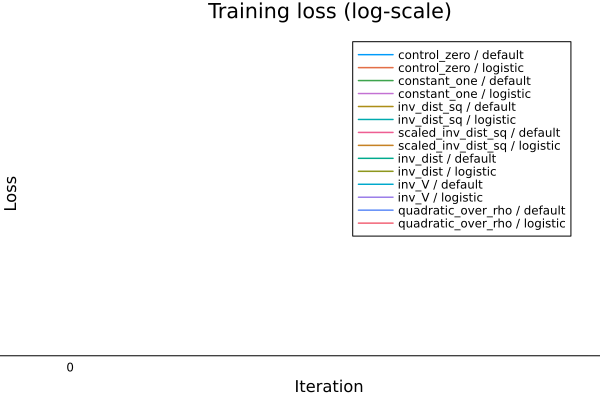
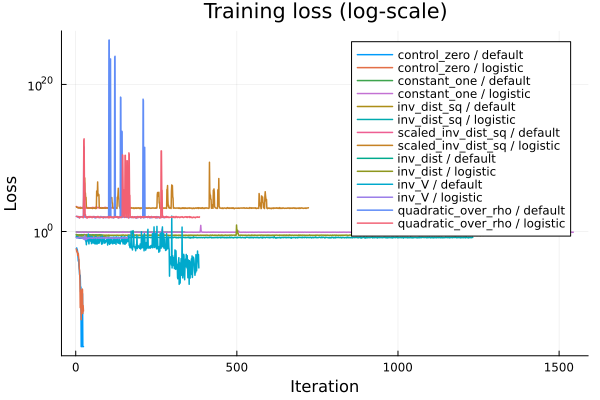
Fix blank loss plot by clamping zero losses before log-scale render
Made-with: Cursor

diff --git a/results/structured_report.md b/results/structured_report.md
@@ -1,6 +1,6 @@
 # Structured Report
 
-- Timestamp: 2026-03-10 14:02:35
+- Timestamp: 2026-03-20 11:11:30
 - NeuralLyapunov path: `C:\Users\AD\.julia\packages\NeuralLyapunov\oKiqr\src\NeuralLyapunov.jl`
 - Default sigmoid in source: `(x) -> x .≥ zero.(x)` (hard step)
 - Logistic sigmoid used in experiments: `σ(z)=1/(1+exp(-k*z))`, with `k=20`
@@ -8,10 +8,17 @@
 - Loss aggregation: NeuralPDE residual loss over PDE equations (each residual vs `0.0`).
 - Gradient through default sigmoid: non-smooth/boolean gate; logistic variant provides smooth gate.
 
-## Expected vs actual (selected penalties)
+## Penalty Hypotheses
 
-- **controlzero**: expected smallest RoA because no out-of-RoA penalty; observed areas 2.9064 (default) and 2.9164 (logistic), which are among the smallest, consistent with limited RoA expansion.
-- **constantone**: expected moderate RoA expansion due to a uniform penalty; observed areas 2.9004 (default) and 3.1276 (logistic), with the logistic run near the top of the area range, roughly matching the moderate-expansion expectation.
+| Penalty | Expression | Expected Behavior | Reasoning |
+|---------|------------|-------------------|-----------|
+| control_zero | 0 | smallest RoA estimate since there is no penalty outside the RoA | optimizer receives no gradient signal outside the RoA boundary |
+| constant_one | 1 | moderate RoA expansion | uniform penalty encourages RoA expansion but provides no spatial structure |
+| inv_dist_sq | 1 / ‖x - x₀‖² | unstable gradients near equilibrium | gradient magnitude increases rapidly near the equilibrium |
+| scaled_inv_dist_sq | 100 / ‖x - x₀‖² | similar to inv_dist_sq due to loss aggregation scaling | NeuralPDE residual loss may normalize effect of scale changes |
+| inv_dist | 1 / ‖x - x₀‖ | smoother variant of inverse distance penalty | weaker singularity compared to squared inverse distance |
+| inv_V | 1 / V | unstable or collapsed RoA estimate | singularity when V approaches zero |
+| quadratic_over_rho | max(0, V - ρ)² | well-shaped RoA boundary | directly penalizes states outside the RoA level set |
 
 ## Per-Run Results
 
@@ -29,6 +36,26 @@
 - penalty: `inv_V` | sigmoid: `logistic` | final_loss: `0.15060974536345745` | ρ: `1.0` | area: `1.3516` | max_dVdt_inside: `2.779808936432459` | has_nan: `false` | error: `none`
 - penalty: `quadratic_over_rho` | sigmoid: `default` | final_loss: `105.90212524702662` | ρ: `1.0` | area: `3.0356` | max_dVdt_inside: `0.23240711672411768` | has_nan: `false` | error: `none`
 - penalty: `quadratic_over_rho` | sigmoid: `logistic` | final_loss: `96.9347660333508` | ρ: `1.0` | area: `3.052` | max_dVdt_inside: `0.12404547271298605` | has_nan: `false` | error: `none`
+
+## Expected vs Observed Behavior
+
+### control_zero (default sigmoid)
+
+- **Expected:** smallest RoA estimate since there is no penalty outside the RoA
+- **Observed:** area = 2.9064, max dV/dt inside = 0.003130671393868094
+- **Comparison:** unexpected — control_zero did not produce the smallest RoA area; other penalties may have collapsed or failed.
+
+### constant_one (logistic sigmoid)
+
+- **Expected:** moderate RoA expansion due to uniform penalty with smooth sigmoid gating
+- **Observed:** area = 3.1276, max dV/dt inside = 0.015466163134244088
+- **Comparison:** consistent — constant_one with logistic sigmoid achieved at-or-above-median area, matching the moderate expansion expectation.
+
+### inv_V (default sigmoid)
+
+- **Expected:** unstable or collapsed RoA estimate due to singularity when V approaches zero
+- **Observed:** area = 0.0016, max dV/dt inside = 52.32431285778799, has_nan = false
+- **Comparison:** unexpected — inv_V did not collapse; the network may have learned to keep V bounded away from zero.
 
 ## Adaptive Reweighting Check
 
